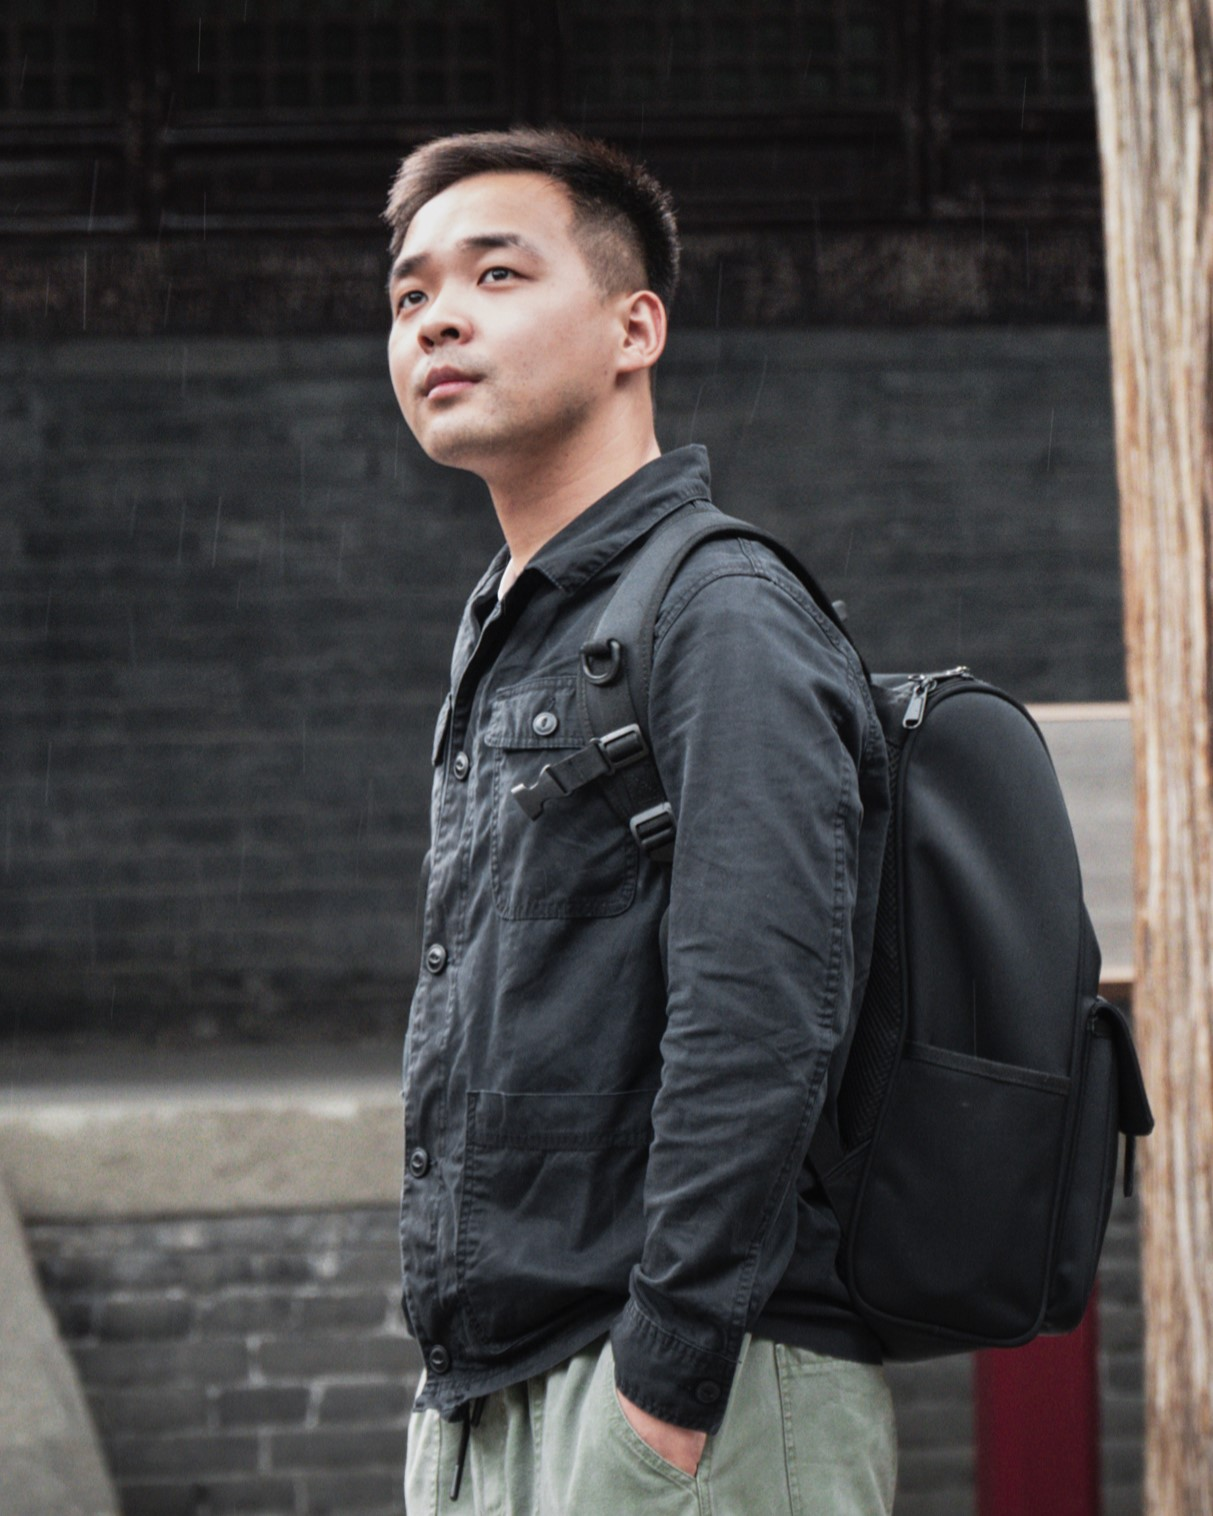
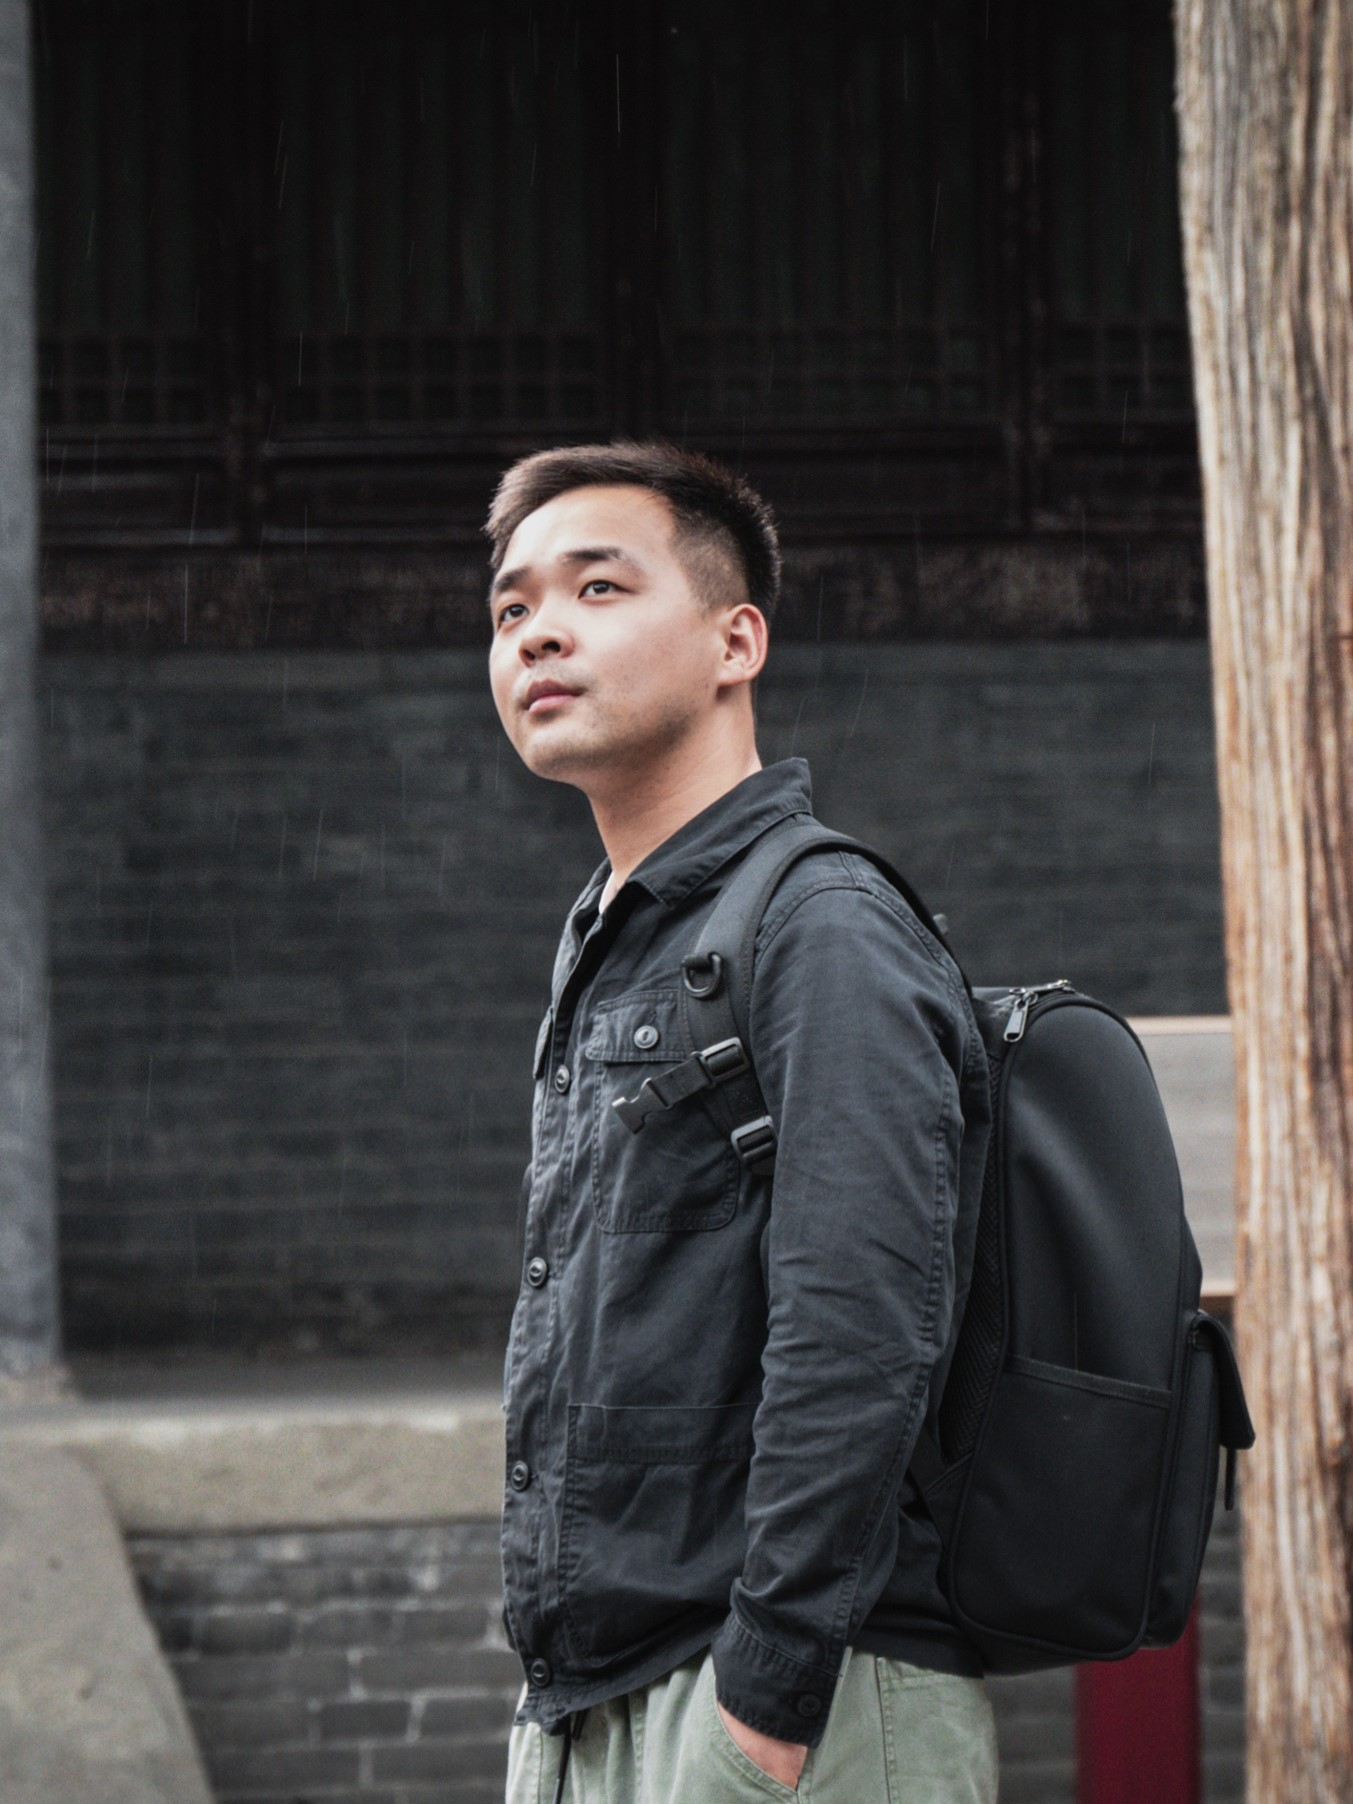
change

diff --git a/src/components/Bio.vue b/src/components/Bio.vue
@@ -16,7 +16,7 @@ const description = computed(() => {
       <div style="font-size: 13pt" v-html="description"></div>
     </div>
     <div>
-      <img class="col" src="../assets/personal-photo.jpg" width="130" alt="personal photo">
+      <img class="col" src="../assets/personal-photo.jpg" width="162" alt="personal photo">
     </div>
   </div>
   <div class="row flex-start">
